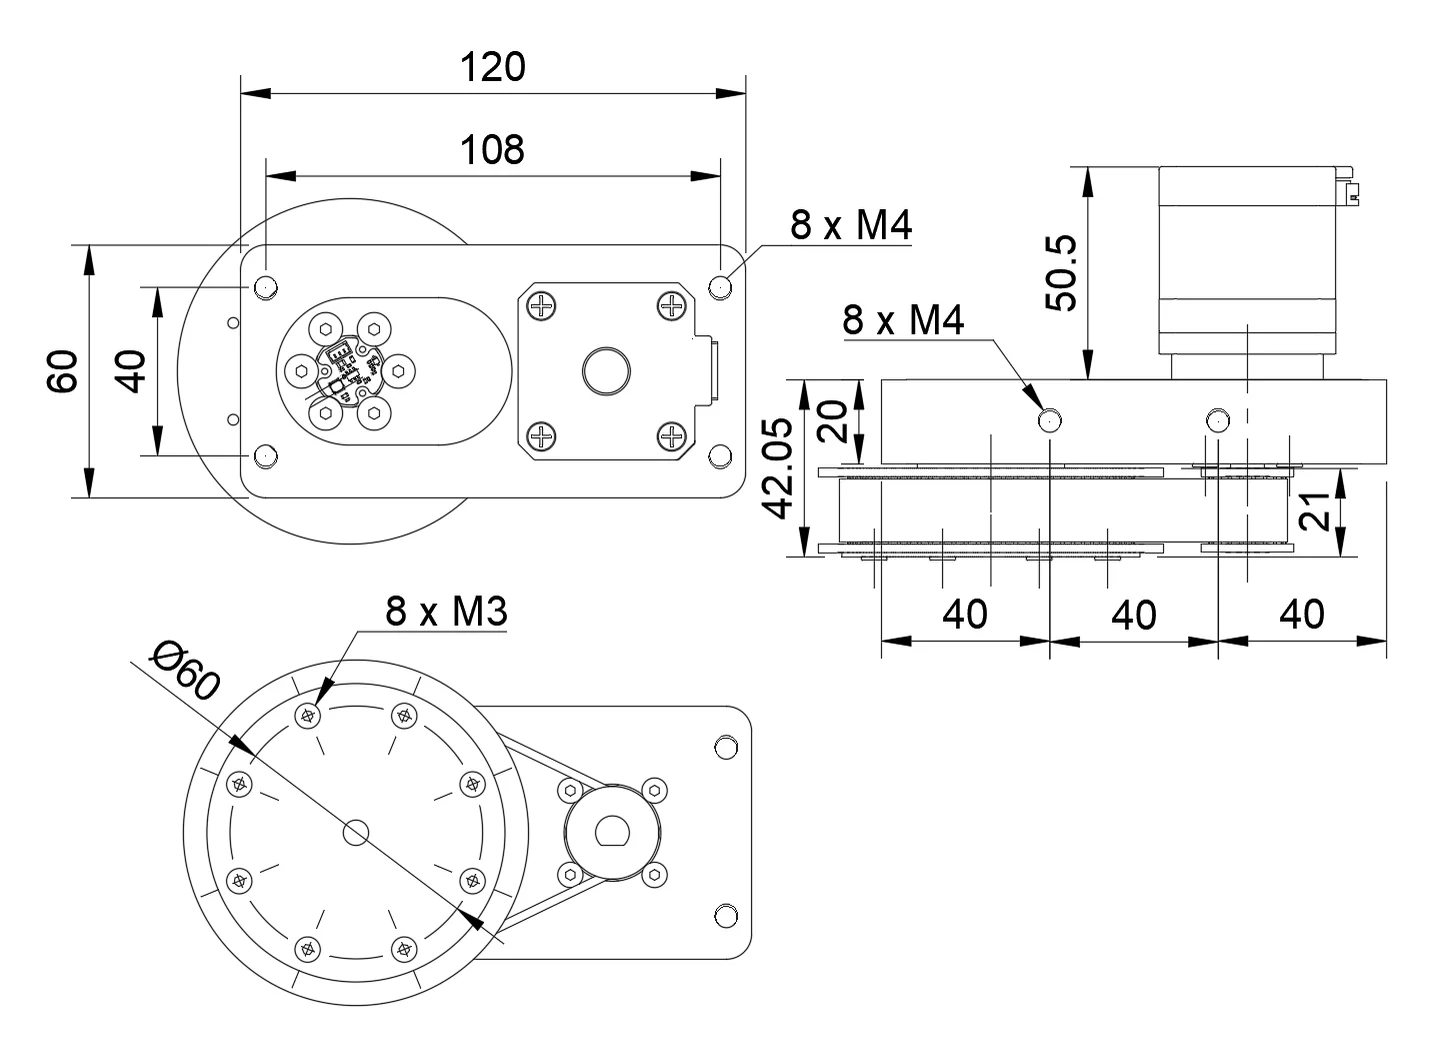
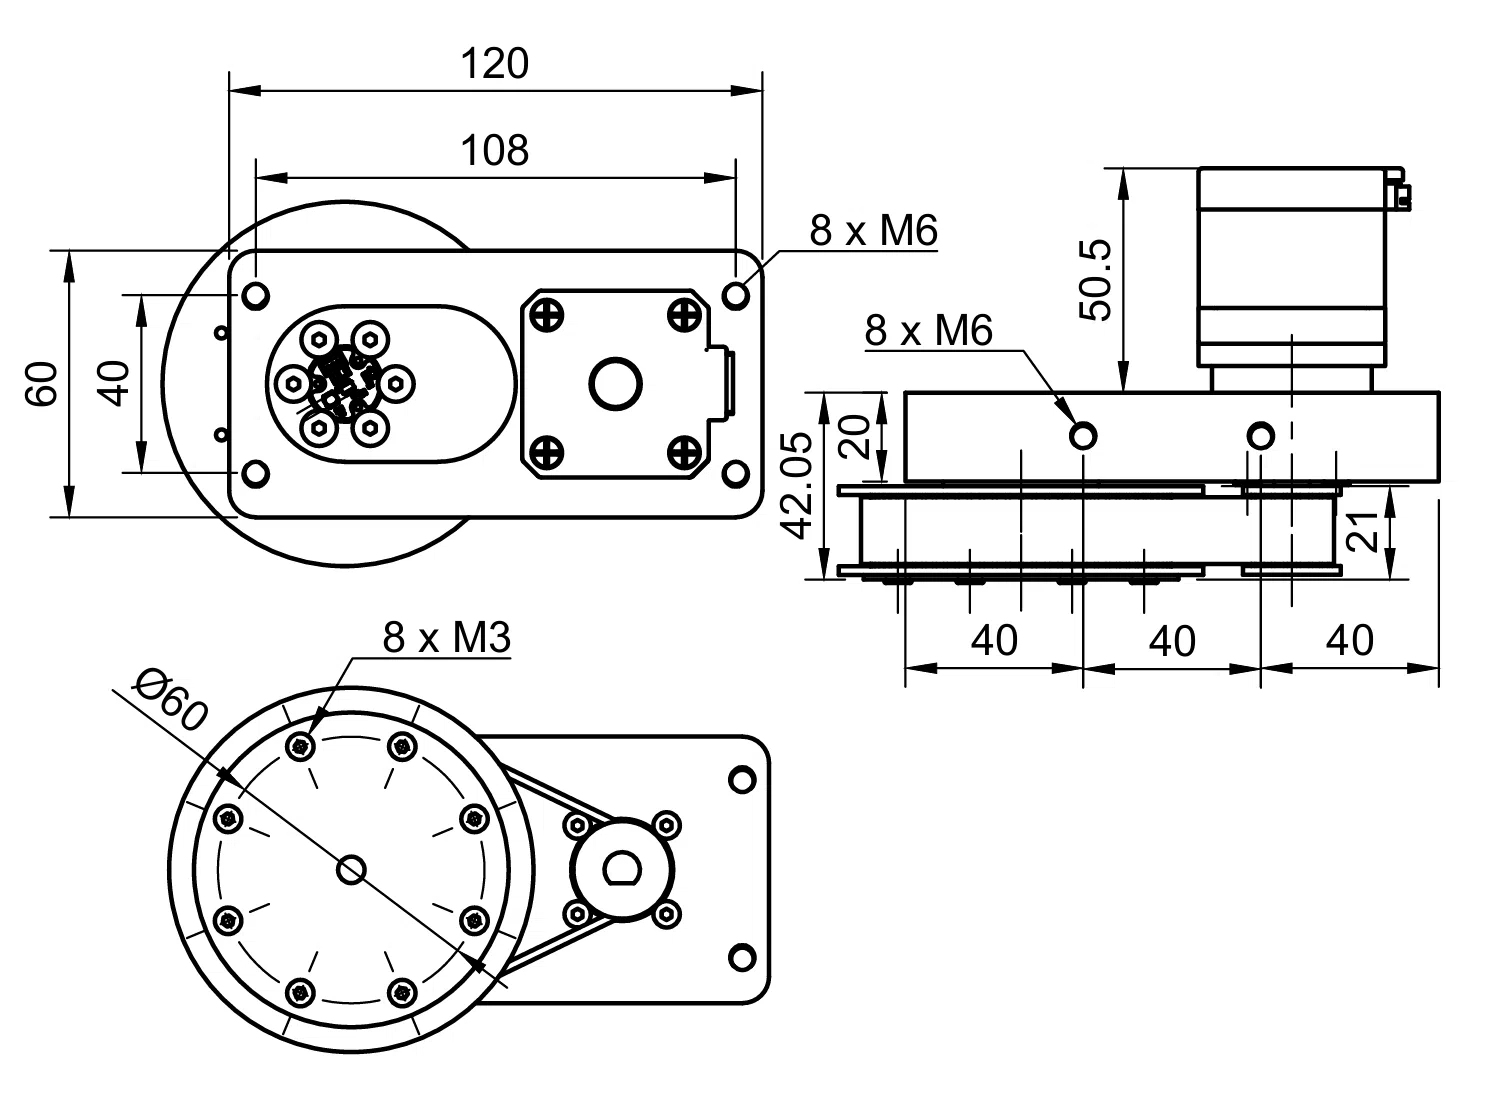
update

Changed region(s): [[0.0, 0.0304, 0.9853, 0.6376], [0.0924, 0.5465, 0.5234, 0.9715], [0.2155, 0.759, 0.2771, 0.8197]]

diff --git a/public/product-pages/DM42-G7220-E02/en/index.html b/public/product-pages/DM42-G7220-E02/en/index.html
@@ -87,7 +87,7 @@
         </div>
         <div class="benefit-grid">
           <article><span>01</span><h3>Direct output feedback</h3><p>The encoder is mounted inside the output pulley and reports its actual angle and speed.</p><strong>Useful for joint-state monitoring</strong></article>
-          <article><span>02</span><h3>Flexible mounting</h3><p>M4 threaded holes across the main frame support different mechanical layouts and installation requirements.</p><strong>Adaptable to multiple mounting scenarios</strong></article>
+          <article><span>02</span><h3>Flexible mounting</h3><p>M6 threaded holes across the main frame support different mechanical layouts and installation requirements.</p><strong>Adaptable to multiple mounting scenarios</strong></article>
           <article><span>03</span><h3>Three control modes</h3><p>TTL Stepper Driver (A) provides position, speed and follower modes for common robotics control tasks.</p><strong>Less application-side control logic</strong></article>
           <article><span>04</span><h3>Bus-based integration</h3><p>The driver and encoder share a single-wire TTL bus with other LYGION devices or compatible Feetech bus servos.</p><strong>One bus for mixed device types</strong></article>
         </div>
@@ -99,7 +99,7 @@
         <div class="section-heading">
           <p class="eyebrow">PRODUCT STRUCTURE</p>
           <h2>Straightforward mechanical integration</h2>
-          <p>M4 threaded holes on the main frame provide mounting options for different mechanisms. The output pulley includes eight M3 mounting holes, making it practical to attach a custom link, arm or rotary fixture.</p>
+          <p>M6 threaded holes on the main frame provide mounting options for different mechanisms. The output pulley includes eight M3 mounting holes, making it practical to attach a custom link, arm or rotary fixture.</p>
         </div>
         <div class="structure-grid">
           <figure class="image-card">

diff --git a/public/product-pages/DM42-G7220-E02/index.html b/public/product-pages/DM42-G7220-E02/index.html
@@ -85,7 +85,7 @@
         </div>
         <div class="benefit-grid">
           <article><span>01</span><h3>输出端直接反馈</h3><p>编码器位于输出轮内部，读数同步轮实际输出角度和速度。</p><strong>用于关节状态检测</strong></article>
-          <article><span>02</span><h3>灵活的安装方式</h3><p>主体结构上带有M4螺纹孔，便于根据应用需求进行安装和集成。</p><strong>支持多种安装场景</strong></article>
+          <article><span>02</span><h3>灵活的安装方式</h3><p>主体结构上带有M6螺纹孔，便于根据应用需求进行安装和集成。</p><strong>支持多种安装场景</strong></article>
           <article><span>03</span><h3>三种控制模式</h3><p>TTL Stepper Driver (A) 提供位置、速度和从动模式，覆盖机器人常用控制方式。</p><strong>应用层程序更简单</strong></article>
           <article><span>04</span><h3>总线化集成方式</h3><p>驱动板和编码器接入单线 TTL 总线，可与其它灵影总线设备或飞特的总线舵机混合使用。</p><strong>一根总线，更多功能</strong></article>
         </div>
@@ -97,7 +97,7 @@
         <div class="section-heading">
           <p class="eyebrow">PRODUCT STRUCTURE</p>
           <h2>结构组装简单</h2>
-          <p>机架主体结构带有M4螺纹孔，便于根据应用需求进行安装和集成。同步轮带有 8 个 M3 安装孔，方便用户根据需要进行扩展。</p>
+          <p>机架主体结构带有M6螺纹孔，便于根据应用需求进行安装和集成。同步轮带有 8 个 M3 安装孔，方便用户根据需要进行扩展。</p>
         </div>
         <div class="structure-grid">
           <figure class="image-card">

diff --git a/public/product-pages/SW69-TTL/en/index.html b/public/product-pages/SW69-TTL/en/index.html
@@ -128,8 +128,8 @@
           </figure>
         </div>
         <figure class="dimension-card">
-          <img src="../assets/drawing.webp" alt="SW69-TTL mechanical drawing with dimensions and M4 mounting holes" loading="lazy">
-          <figcaption><strong>Envelope and mounting dimensions</strong><span>Dimensions are in millimeters. The drawing shows the Ø69 mm drive wheel, top mounting face, 108 × 40 mm hole spacing and eight M4 threaded holes.</span></figcaption>
+          <img src="../assets/drawing.webp" alt="SW69-TTL mechanical drawing with dimensions and M6 mounting holes" loading="lazy">
+          <figcaption><strong>Envelope and mounting dimensions</strong><span>Dimensions are in millimeters. The drawing shows the Ø69 mm drive wheel, top mounting face, 108 × 40 mm hole spacing and eight M6 threaded holes.</span></figcaption>
         </figure>
       </div>
     </section>
@@ -197,7 +197,7 @@
             <div><span>Product type</span><strong>Omnidirectional chassis swerve drive module</strong></div>
             <div><span>Load capacity per module</span><strong>50 kg</strong></div>
             <div><span>Drive wheel diameter</span><strong>Ø69 mm</strong></div>
-            <div><span>Top mounting holes</span><strong>8 × M4</strong></div>
+            <div><span>Top mounting holes</span><strong>8 × M6</strong></div>
             <div><span>Main mounting-hole spacing</span><strong>108 × 40 mm</strong></div>
             <div><span>Steering drive</span><strong>Stepper motor with timing-belt reduction</strong></div>
             <div><span>Wheel drive</span><strong>Stepper motor</strong></div>

diff --git a/public/product-pages/SW69-TTL/index.html b/public/product-pages/SW69-TTL/index.html
@@ -128,8 +128,8 @@
           </figure>
         </div>
         <figure class="dimension-card">
-          <img src="assets/drawing.webp" alt="SW69-TTL 舵轮模组尺寸与 M4 安装孔工程图" loading="lazy">
-          <figcaption><strong>外形与安装尺寸</strong><span>图中标注单位为毫米；包含 Φ69 驱动轮、顶部安装面、108 × 40 mm 孔距以及 8 × M4 螺纹孔。</span></figcaption>
+          <img src="assets/drawing.webp" alt="SW69-TTL 舵轮模组尺寸与 M6 安装孔工程图" loading="lazy">
+          <figcaption><strong>外形与安装尺寸</strong><span>图中标注单位为毫米；包含 Φ69 驱动轮、顶部安装面、108 × 40 mm 孔距以及 8 × M6 螺纹孔。</span></figcaption>
         </figure>
       </div>
     </section>
@@ -197,7 +197,7 @@
             <div><span>产品类型</span><strong>全向移动底盘舵轮模组</strong></div>
             <div><span>单模组承载能力</span><strong>50 kg</strong></div>
             <div><span>驱动轮外径</span><strong>Φ69 mm</strong></div>
-            <div><span>顶部安装孔</span><strong>8 × M4</strong></div>
+            <div><span>顶部安装孔</span><strong>8 × M6</strong></div>
             <div><span>主要安装孔距</span><strong>108 × 40 mm</strong></div>
             <div><span>转向驱动</span><strong>步进电机 + 同步带传动</strong></div>
             <div><span>行走驱动</span><strong>步进电机</strong></div>
